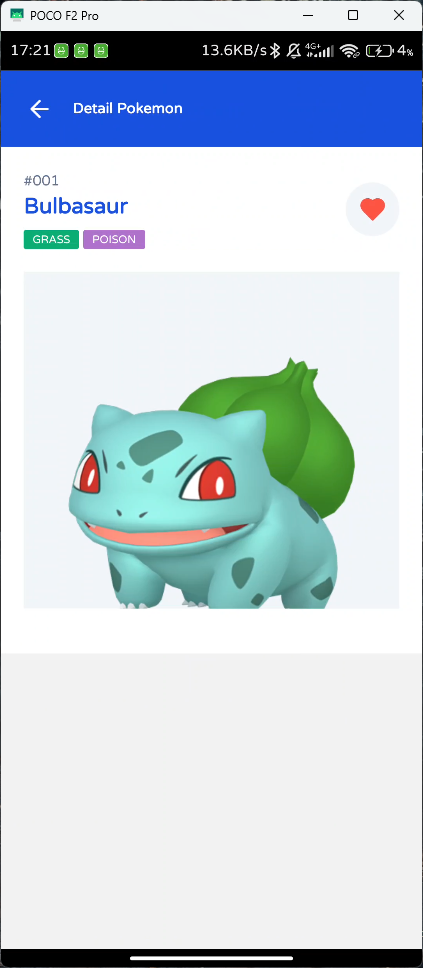
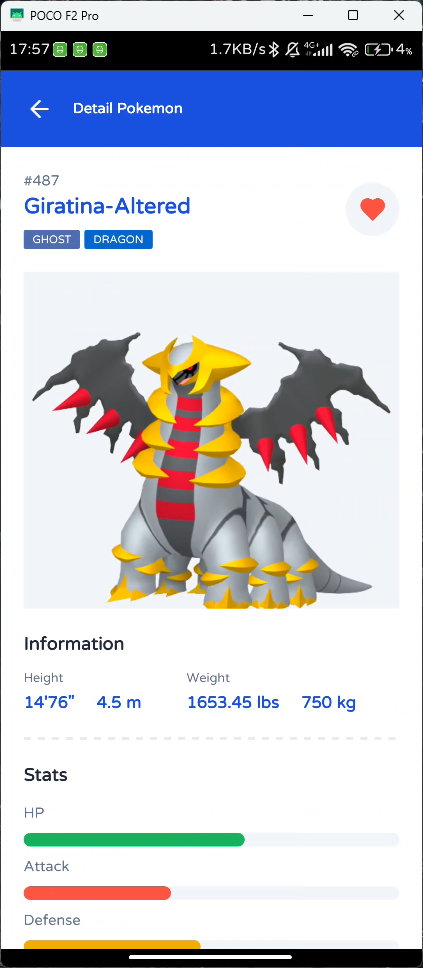
add pokemon stats

diff --git a/src/screens/PokemonDetail/PokemonDetailScreen.tsx b/src/screens/PokemonDetail/PokemonDetailScreen.tsx
@@ -1,75 +1,31 @@
 /* eslint-disable react-native/no-inline-styles */
-import {
-  View,
-  Text,
-  ScrollView,
-  Image,
-  Dimensions,
-  TouchableOpacity,
-} from 'react-native';
+import {View, ScrollView} from 'react-native';
 import React from 'react';
 import {SafeAreaView} from 'react-native-safe-area-context';
 import LayoutWithTopBar from '../../components/Layout/LayoutWithTopBar';
 import {NativeStackScreenProps} from '@react-navigation/native-stack';
 import {RootStackParamList} from '../../types/navigation.type';
-import {getPokemonIndex} from '../../lib/utils/getPokemonIndex';
-import BadgePokemonType from '../../components/UI/Badge/BadgePokemonType';
-import {HeartIcon} from 'lucide-react-native';
-import {useFavorites} from '../../hooks/zustand/useFavorites';
+import PokemonSummary from './components/PokemonSummary';
+import PokemonInfo from './components/PokemonInfo';
+import PokemonStats from './components/PokemonStats';
 
 type Props = NativeStackScreenProps<RootStackParamList, 'PokemonDetail'>;
 
 export default function PokemonDetailScreen({route}: Props) {
   const {name, url, data} = route.params;
-  const {isFavorite, addFavorite, removeFavorite} = useFavorites();
 
   return (
     <SafeAreaView>
       <LayoutWithTopBar title="Detail Pokemon">
-        <ScrollView>
+        <ScrollView
+          contentContainerStyle={{
+            paddingBottom: 140,
+          }}
+          showsHorizontalScrollIndicator={false}>
           <View className="bg-white p-5">
-            <View className="flex-row items-center justify-between gap-5">
-              <View>
-                <Text className="text-slate-500 text-base">
-                  #{getPokemonIndex(data.id, 3)}
-                </Text>
-                <Text className="text-2xl text-blue-700 font-semibold capitalize">
-                  {data.name}
-                </Text>
-                <View className="flex-row gap-x-1 mt-2">
-                  {data.types.map((type: any) => (
-                    <View key={type.type.name}>
-                      <BadgePokemonType type={type.type.name} />
-                    </View>
-                  ))}
-                </View>
-              </View>
-              <TouchableOpacity
-                className="bg-slate-100 p-3 rounded-full"
-                onPress={() => {
-                  if (isFavorite(data.name)) {
-                    removeFavorite(data.name);
-                  } else {
-                    addFavorite({
-                      name,
-                      url,
-                      data,
-                    });
-                  }
-                }}>
-                <HeartIcon
-                  fill={isFavorite(data.name) ? '#ef4444' : '#f1f5f9'}
-                  className="text-red-500"
-                />
-              </TouchableOpacity>
-            </View>
-            <Image
-              source={{
-                uri: data.sprites.other.home.front_default,
-              }}
-              style={{width: Dimensions.get('window').width - 40, height: 300}}
-              className="bg-slate-100 object-contain my-5"
-            />
+            <PokemonInfo name={name} url={url} data={data} />
+            <PokemonSummary data={data} />
+            <PokemonStats data={data} />
           </View>
         </ScrollView>
       </LayoutWithTopBar>

diff --git a/src/screens/PokemonDetail/components/PokemonInfo.tsx b/src/screens/PokemonDetail/components/PokemonInfo.tsx
@@ -1,0 +1,64 @@
+/* eslint-disable react-native/no-inline-styles */
+import {View, Text, TouchableOpacity, Image, Dimensions} from 'react-native';
+import React from 'react';
+import {getPokemonIndex} from '../../../lib/utils/getPokemonIndex';
+import BadgePokemonType from '../../../components/UI/Badge/BadgePokemonType';
+import {HeartIcon} from 'lucide-react-native';
+import {useFavorites} from '../../../hooks/zustand/useFavorites';
+
+type Props = {
+  name: string;
+  url: string;
+  data: any;
+};
+
+export default function PokemonInfo({name, url, data}: Props) {
+  const {isFavorite, addFavorite, removeFavorite} = useFavorites();
+
+  return (
+    <View>
+      <View className="flex-row items-center justify-between gap-5">
+        <View>
+          <Text className="text-slate-500 text-base">
+            #{getPokemonIndex(data.id, 3)}
+          </Text>
+          <Text className="text-2xl text-blue-700 font-semibold capitalize">
+            {data.name}
+          </Text>
+          <View className="flex-row gap-x-1 mt-2">
+            {data.types.map((type: any) => (
+              <View key={type.type.name}>
+                <BadgePokemonType type={type.type.name} />
+              </View>
+            ))}
+          </View>
+        </View>
+        <TouchableOpacity
+          className="bg-slate-100 p-3 rounded-full"
+          onPress={() => {
+            if (isFavorite(data.name)) {
+              removeFavorite(data.name);
+            } else {
+              addFavorite({
+                name,
+                url,
+                data,
+              });
+            }
+          }}>
+          <HeartIcon
+            fill={isFavorite(data.name) ? '#ef4444' : '#f1f5f9'}
+            className="text-red-500"
+          />
+        </TouchableOpacity>
+      </View>
+      <Image
+        source={{
+          uri: data.sprites.other.home.front_default,
+        }}
+        style={{width: Dimensions.get('window').width - 40, height: 300}}
+        className="bg-slate-100 object-contain my-5"
+      />
+    </View>
+  );
+}

diff --git a/src/screens/PokemonDetail/components/PokemonSummary.tsx b/src/screens/PokemonDetail/components/PokemonSummary.tsx
@@ -1,0 +1,40 @@
+import {View, Text} from 'react-native';
+import React from 'react';
+
+export default function PokemonSummary({data}: any) {
+  return (
+    <View>
+      <Text className="text-slate-800 font-semibold text-xl">Information</Text>
+      <View className="border-b-2 border-dashed border-slate-200 pb-5 mb-5">
+        <View className="flex-row gap-x-10 mt-3">
+          <View>
+            <Text className="text-slate-500 mb-1">Height</Text>
+            <View className="flex-row gap-x-5">
+              <Text className="text-lg text-blue-700 font-semibold">
+                {(data.height * 0.32808)
+                  .toFixed(2)
+                  .toString()
+                  .replace('.', "'")}
+                "
+              </Text>
+              <Text className="text-lg text-blue-700 font-semibold">
+                {data.height / 10} m
+              </Text>
+            </View>
+          </View>
+          <View>
+            <Text className="text-slate-500 mb-1">Weight</Text>
+            <View className="flex-row gap-x-5">
+              <Text className="text-lg text-blue-700 font-semibold">
+                {(data.weight * 0.22046).toFixed(2)} lbs
+              </Text>
+              <Text className="text-lg text-blue-700 font-semibold">
+                {data.weight / 10} kg
+              </Text>
+            </View>
+          </View>
+        </View>
+      </View>
+    </View>
+  );
+}

diff --git a/src/screens/PokemonDetail/components/PokemonStats.tsx b/src/screens/PokemonDetail/components/PokemonStats.tsx
@@ -1,0 +1,25 @@
+import {View, Text} from 'react-native';
+import React from 'react';
+import Stat from './Stat';
+
+export default function PokemonStats({data}: any) {
+  return (
+    <View>
+      <Text className="text-slate-800 font-semibold text-xl mb-3">Stats</Text>
+      <Stat name="HP" bg="bg-green-500" value={data.stats[0].base_stat} />
+      <Stat name="Attack" bg="bg-red-500" value={data.stats[1].base_stat} />
+      <Stat name="Defense" bg="bg-yellow-500" value={data.stats[2].base_stat} />
+      <Stat name="Speed" bg="bg-orange-500" value={data.stats[5].base_stat} />
+      <Stat
+        name="Special Attack"
+        bg="bg-pink-500"
+        value={data.stats[3].base_stat}
+      />
+      <Stat
+        name="Special Defense"
+        bg="bg-blue-500"
+        value={data.stats[4].base_stat}
+      />
+    </View>
+  );
+}

diff --git a/src/screens/PokemonDetail/components/Stat.tsx b/src/screens/PokemonDetail/components/Stat.tsx
@@ -1,0 +1,24 @@
+import {View, Text} from 'react-native';
+import React from 'react';
+
+interface IStat {
+  name: string;
+  value: number;
+  bg: string;
+}
+
+export default function Stat({name, value, bg}: IStat) {
+  const persentage = (value / 255) * 100;
+
+  return (
+    <View className="mb-2">
+      <Text className="text-slate-500 mb-2 font-medium text-base">{name}</Text>
+      <View className="bg-slate-100 h-3 w-full rounded-full">
+        <View
+          className={`${bg} h-3 rounded-full`}
+          style={{width: `${persentage}%`}}
+        />
+      </View>
+    </View>
+  );
+}
